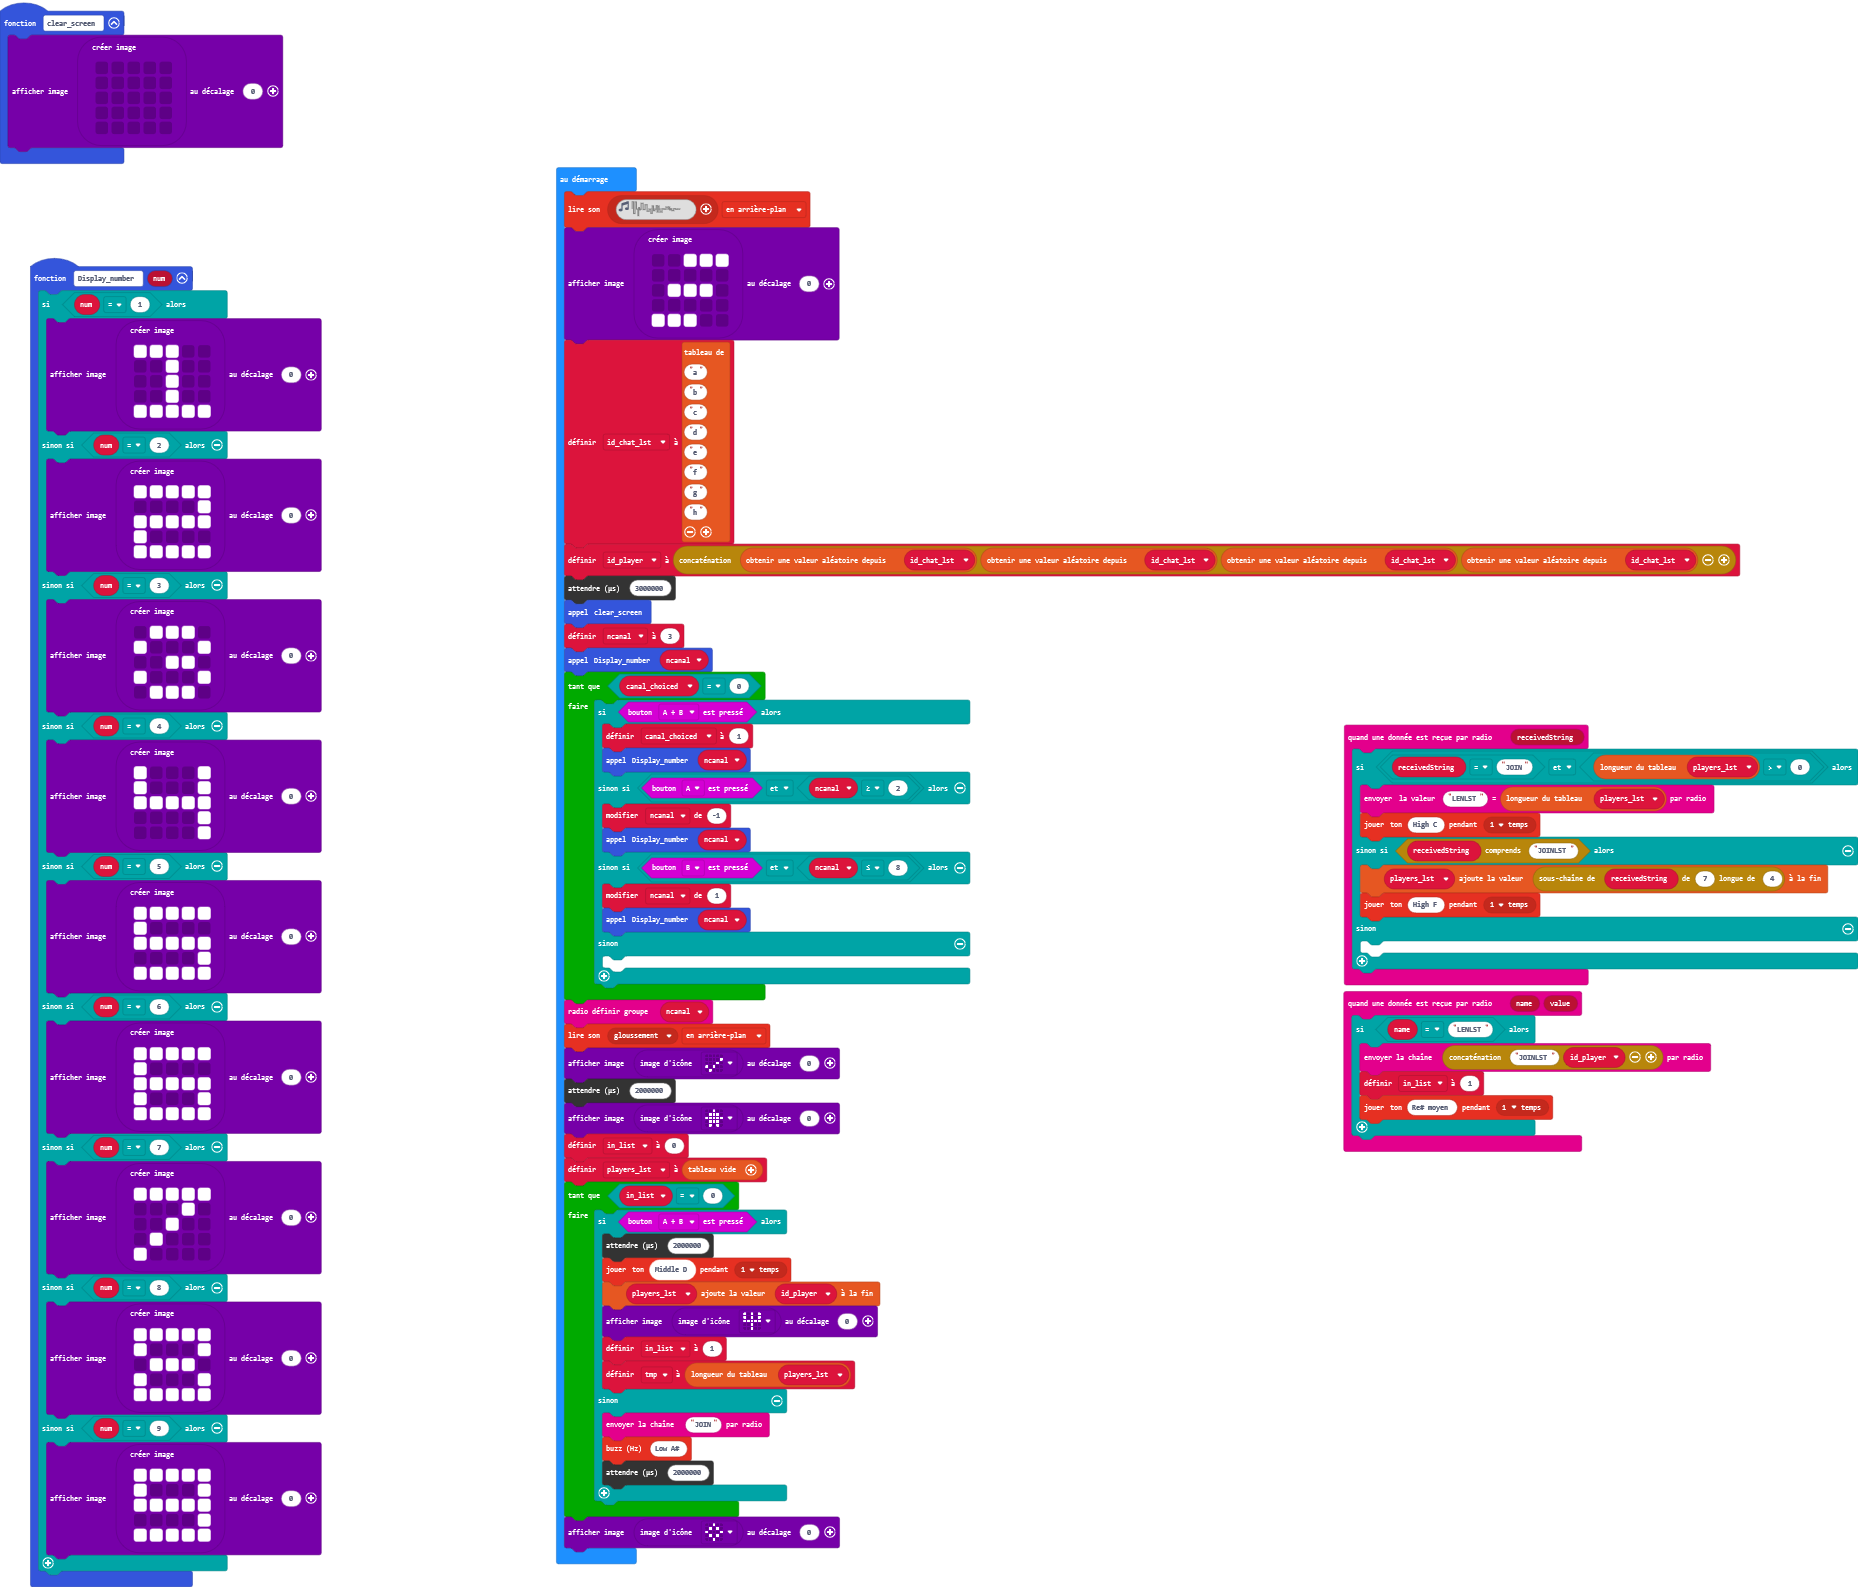
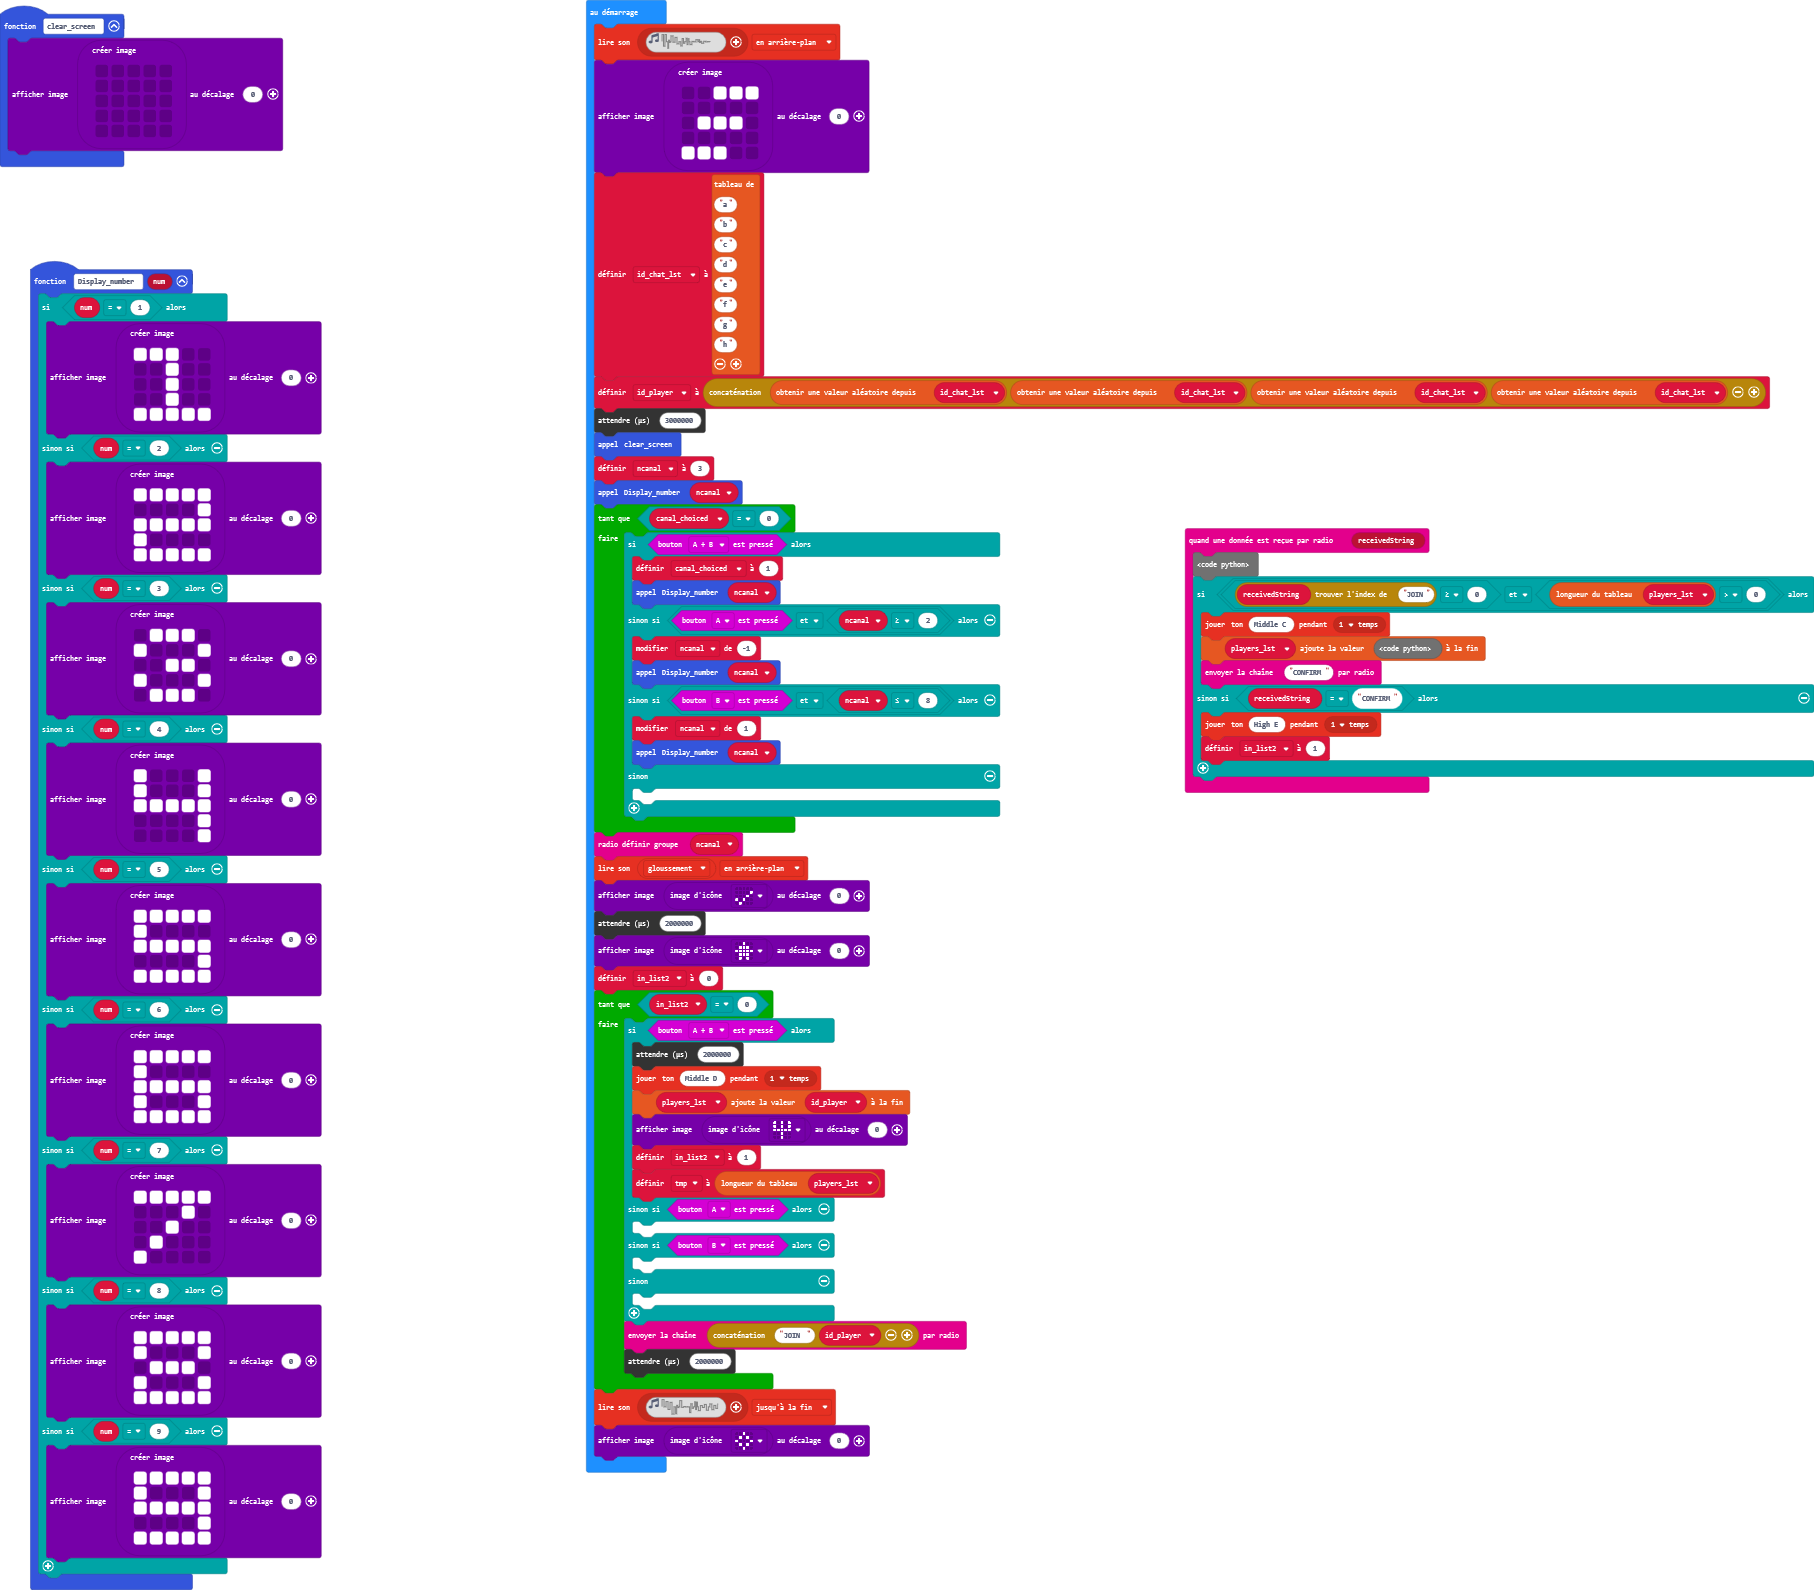
Mise à jour pxt.json, main.blocks, main.ts, main.py

Changed region(s): [[0.2778, 0.0, 1.0, 0.988], [0.0, 0.1544, 0.1852, 1.0], [0.0, 0.0, 0.1544, 0.1235]]

diff --git a/main.ts b/main.ts
@@ -83,28 +83,20 @@ function clear_screen () {
         `).showImage(0)
 }
 radio.onReceivedString(function (receivedString) {
-    if (receivedString == "JOIN" && players_lst.length > 0) {
-        radio.sendValue("LENLST", players_lst.length)
-        music.playTone(523, music.beat(BeatFraction.Whole))
-    } else if (receivedString.includes("JOINLST")) {
-        players_lst.push(receivedString.substr(7, 4))
-        music.playTone(698, music.beat(BeatFraction.Whole))
-    } else {
-    	
-    }
-})
-radio.onReceivedValue(function (name, value) {
-    if (name == "LENLST") {
-        radio.sendString("JOINLST" + id_player)
-        in_list = 1
-        music.playTone(311, music.beat(BeatFraction.Whole))
+    let in_list: number;
+if (receivedString.indexOf("JOIN") >= 0 && players_lst.length > 0) {
+        music.playTone(262, music.beat(BeatFraction.Whole))
+        players_lst.push(receivedString.slice(5))
+        radio.sendString("CONFIRM")
+    } else if (receivedString == "CONFIRM") {
+        music.playTone(659, music.beat(BeatFraction.Whole))
+        in_list2 = 1
     }
 })
 let tmp = 0
 let players_lst: string[] = []
-let in_list = 0
+let in_list2 = 0
 let canal_choiced = 0
-let id_player = ""
 music.playSoundEffect(music.createSoundEffect(WaveShape.Noise, 54, 54, 255, 0, 500, SoundExpressionEffect.None, InterpolationCurve.Linear), SoundExpressionPlayMode.InBackground)
 images.createImage(`
     . . # # #
@@ -123,7 +115,7 @@ let id_chat_lst = [
 "g",
 "h"
 ]
-id_player = "" + id_chat_lst._pickRandom() + id_chat_lst._pickRandom() + id_chat_lst._pickRandom() + id_chat_lst._pickRandom()
+let id_player = "" + id_chat_lst._pickRandom() + id_chat_lst._pickRandom() + id_chat_lst._pickRandom() + id_chat_lst._pickRandom()
 control.waitMicros(3000000)
 clear_screen()
 let ncanal = 3
@@ -147,20 +139,24 @@ music.playSoundEffect(music.builtinSoundEffect(soundExpression.giggle), SoundExp
 images.iconImage(IconNames.Yes).showImage(0)
 control.waitMicros(2000000)
 images.iconImage(IconNames.House).showImage(0)
-in_list = 0
-players_lst = []
-while (in_list == 0) {
+in_list2 = 0
+while (in_list2 == 0) {
     if (input.buttonIsPressed(Button.AB)) {
         control.waitMicros(2000000)
         music.playTone(294, music.beat(BeatFraction.Whole))
         players_lst.push(id_player)
         images.iconImage(IconNames.Pitchfork).showImage(0)
-        in_list = 1
+        in_list2 = 1
         tmp = players_lst.length
+    } else if (input.buttonIsPressed(Button.A)) {
+    	
+    } else if (input.buttonIsPressed(Button.B)) {
+    	
     } else {
-        radio.sendString("JOIN")
-        music.ringTone(233)
-        control.waitMicros(2000000)
+    	
     }
+    radio.sendString("JOIN " + id_player)
+    control.waitMicros(2000000)
 }
+music.playSoundEffect(music.createSoundEffect(WaveShape.Noise, 500, 499, 255, 0, 750, SoundExpressionEffect.None, InterpolationCurve.Linear), SoundExpressionPlayMode.UntilDone)
 images.iconImage(IconNames.Diamond).showImage(0)

diff --git a/main.py b/main.py
@@ -81,30 +81,17 @@ def clear_screen():
     """).show_image(0)
 
 def on_received_string(receivedString):
-    if receivedString == "JOIN" and len(players_lst) > 0:
-        radio.send_value("LENLST", len(players_lst))
-        music.play_tone(523, music.beat(BeatFraction.WHOLE))
-    elif receivedString.includes("JOINLST"):
-        players_lst.append(receivedString.substr(7, 4))
-        music.play_tone(698, music.beat(BeatFraction.WHOLE))
-    else:
-        pass
-radio.on_received_string(on_received_string)
-
-def on_received_value(name, value):
-    global in_list
-    clear_screen()
-    if name == "LENLST" and value > 0:
-        radio.send_string("JOINLST" + id_player)
+    if receivedString.index_of("JOIN") >= 0 and len(players_lst) > 0:
+        players_lst.append(receivedString.slice(5))
+        radio.send_string("CONFIRM")
+    elif receivedString == "CONFIRM":
         in_list = 1
-        music.play_tone(554, music.beat(BeatFraction.WHOLE))
-radio.on_received_value(on_received_value)
+radio.on_received_string(on_received_string)
 
 tmp = 0
 players_lst: List[str] = []
-in_list = 0
+in_list2 = 0
 canal_choiced = 0
-id_player = ""
 music.play_sound_effect(music.create_sound_effect(WaveShape.NOISE,
         54,
         54,
@@ -145,19 +132,16 @@ music.play_sound_effect(music.builtin_sound_effect(soundExpression.giggle),
 images.icon_image(IconNames.YES).show_image(0)
 control.wait_micros(2000000)
 images.icon_image(IconNames.HOUSE).show_image(0)
-in_list = 0
-players_lst = []
-while in_list == 0:
+while in_list2 == 0:
     if input.button_is_pressed(Button.AB):
         control.wait_micros(2000000)
         music.play_tone(294, music.beat(BeatFraction.WHOLE))
         players_lst.append(id_player)
         images.icon_image(IconNames.PITCHFORK).show_image(0)
-        in_list = 1
+        in_list2 = 1
         tmp = len(players_lst)
     else:
-        radio.send_string("JOIN")
+        radio.send_string("JOIN " + id_player)
+        music.ring_tone(233)
         control.wait_micros(2000000)
-music.play_sound_effect(music.builtin_sound_effect(soundExpression.twinkle),
-    SoundExpressionPlayMode.IN_BACKGROUND)
 images.icon_image(IconNames.DIAMOND).show_image(0)
